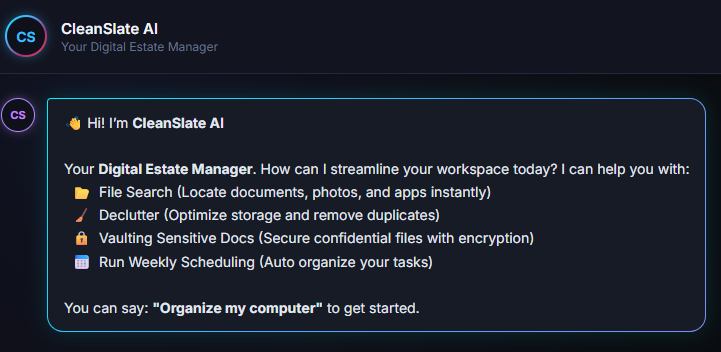
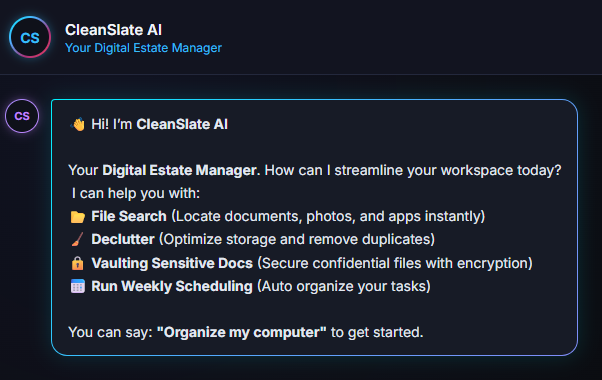
scope-bold

Changed region(s): [[0.0, 0.25, 0.9867, 0.9375], [0.0, 0.0312, 0.3588, 0.1875]]

diff --git a/app/nodes/folder_scope_node.py b/app/nodes/folder_scope_node.py
@@ -278,7 +278,7 @@ def _get_default_safe_suggestions() -> str:
     """Returns OS-appropriate safe folder suggestions, preferring the CleanSlateAI folder."""
     if os.name == "nt":
         return (
-            "  \u2705  C:/Users/CleanSlateAI\n"
+            "  \u2705  **C:/Users/CleanSlateAI**\n"
             "  \u2705  C:/Users/user_name/Desktop\n"
             "  \u2705  C:/Users/user_name/Documents\n"
             "  \u2705  C:/Users/user_name/Downloads\n"
@@ -437,14 +437,14 @@ async def folder_scope_node(
         import platform
         is_mac = platform.system().lower() == "darwin"
         home_base = "/Users" if is_mac else "/home"
-        example = "C:/Users/CleanSlateAI" if os.name == "nt" else f"{home_base}/user_name/CleanSlateAI"
+        example = "**C:/Users/CleanSlateAI**" if os.name == "nt" else f"**{home_base}/user_name/CleanSlateAI**"
 
         msg = (
             "\U0001f9f9 Great! Let\u2019s get your computer organized safely.\n"
             + "\u2500" * 60 + "\n\n"
-            "\U0001f4c2 Suggested safe folders you can organize:\n"
+            "\U0001f4c2 Suggested **safe folders** you can organize:\n"
             + suggestions + "\n\n"
-            "\u26d4 Automatically blocked (system folders \u2014 never touched):\n"
+            "\u26d4 Automatically **blocked** (system folders \u2014 never touched):\n"
             + blocked_preview + "\n\n"
             "\U0001f512 Sensitive files found during cleanup will be moved to\n"
             "   your secure Authenticated folder automatically.\n\n"